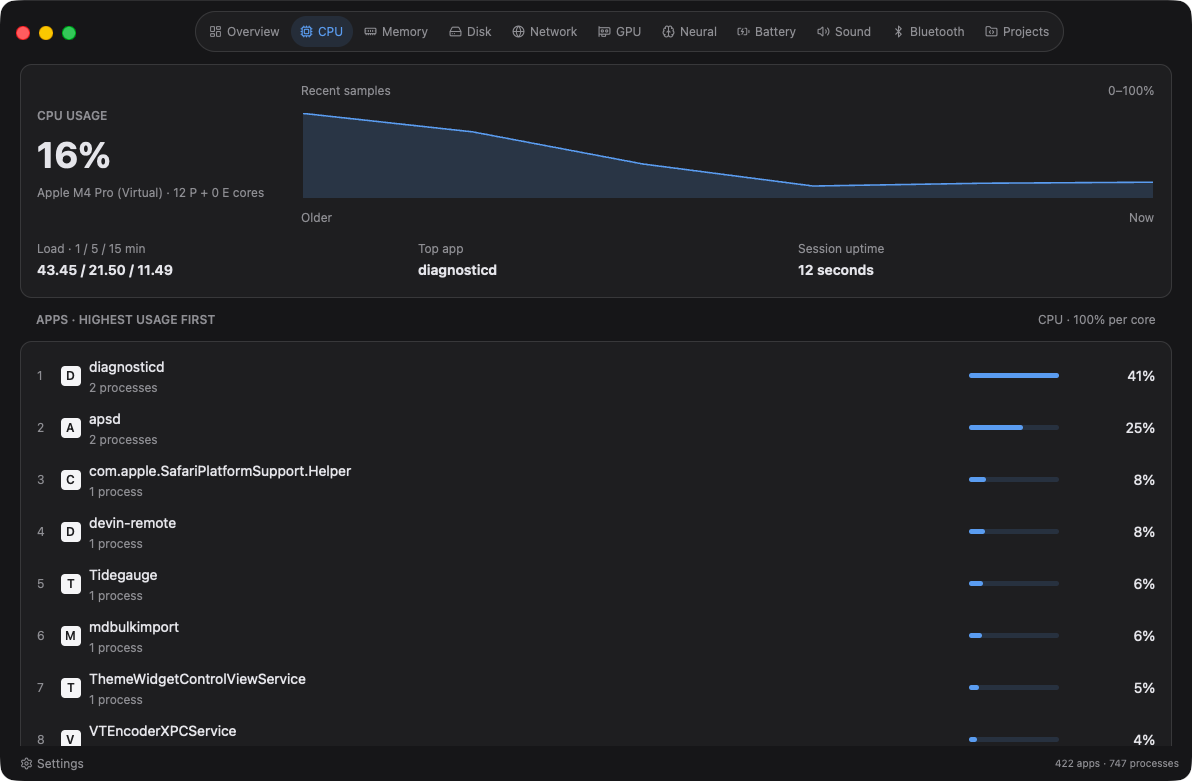
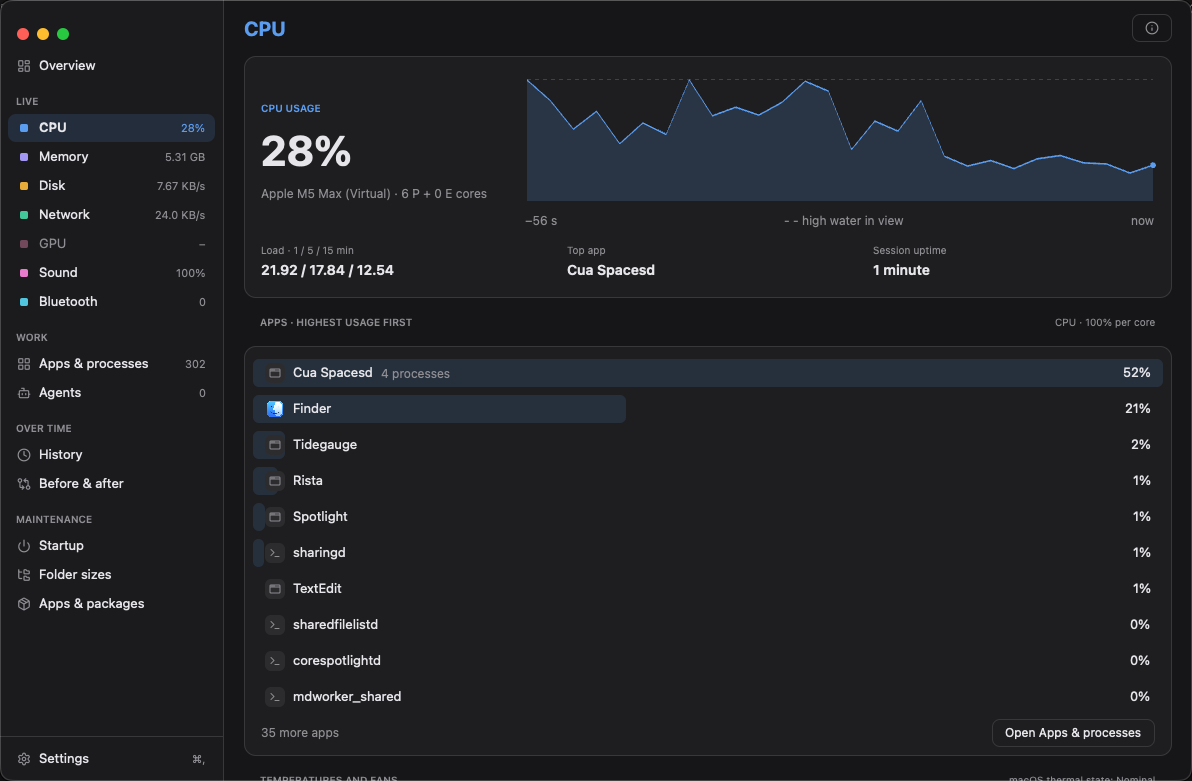
docs: new screenshots and README for the 0.3 layout
- Overview, CPU (light and dark), Apps & processes and Settings captured
  from the signed 0.3.3 build in a virtual Mac, English interface.
- The four captures of the old layout are removed.
- README describes the sidebar, the menu-bar panel, Agents, process
  control, language and updates instead of the old footer and tabs.

diff --git a/README.md b/README.md
@@ -14,15 +14,17 @@ notarized; a locally generated image is not automatically notarized.
 
 ![Tidegauge dashboard](assets/dashboard.png)
 
-Current dashboard in dark appearance, captured on a virtual Mac. Readings
-describe that development environment, not physical-hardware validation.
+Overview in Tidegauge 0.3.3, dark appearance, captured on a virtual Mac. The
+virtual Mac has no battery and no readable GPU usage, so those read as
+unavailable; readings describe that environment, not physical hardware.
 
 | Light appearance | Dark appearance |
 |---|---|
 | ![CPU in light appearance](assets/screenshots/cpu-light.png) | ![CPU in dark appearance](assets/screenshots/cpu-dark.png) |
+| ![Settings in light appearance](assets/screenshots/settings-light.png) | ![Apps and processes in dark appearance](assets/screenshots/apps-dark.png) |
 
-The [screenshot archive](assets/README.md#screenshot-archive) includes capture
-provenance, Norwegian layouts, and explicitly labeled hardware fixtures.
+The [screenshot archive](assets/README.md#screenshot-archive) records how each
+capture was made.
 
 ## Project status
 
@@ -53,7 +55,7 @@ cargo build --release
 ./target/release/tidegauge
 ```
 
-The app opens a resizable dashboard and adds one item to the menu bar. It runs without a Dock icon. Click the menu-bar item and choose Open Dashboard to bring it forward. Closing the window hides it while collection continues. The single menu-bar item opens a native menu with Open Dashboard, Settings, and Quit. Every dashboard tab has a Settings button in the footer. Command-comma also opens Settings, and Command-Q quits while the dashboard is focused. A per-user lock prevents duplicate instances; launching again leaves the existing app running.
+The app opens a resizable window and adds one item to the menu bar. It runs without a Dock icon. A left click on the menu-bar item opens a small panel with live readings, AI plans and the busiest apps, and a button that opens the window; a right or Control click opens a menu with Open Dashboard, Check for Updates, Settings, and Quit. Closing the window hides it while collection continues. The window's sidebar lists every page and ends with Settings. Command-comma also opens Settings, and Command-Q quits while the window is focused. A per-user lock prevents duplicate instances; launching again leaves the existing app running.
 
 Create an ad-hoc preview bundle after the optimized build:
 
@@ -80,19 +82,23 @@ DMG; the helper optionally signs with `DEVELOPER_ID_APPLICATION`.
 | Area | Current implementation |
 |---|---|
 | Menu bar | One Tidegauge icon by default; optional labeled readings share the same native item |
-| Overview | Favorite metric tiles, optional compact layout, and independently configurable tab visibility/order |
-| Metric tabs | CPU, Memory, Disk, Network, GPU, Neural, Battery, and stored History |
+| Menu-bar panel | Live CPU, memory, network and disk with recent curves, AI plans, the busiest apps, and quick actions |
+| Overview | Favorite metric cards, busiest apps, memory and power breakdowns, optional compact layout, and configurable sidebar order |
+| Metric pages | CPU, Memory, Disk, Network, GPU, Battery, Sound, Bluetooth, and stored History, each with notes behind ⓘ |
+| Agents | Running coding-agent sessions with what they started and Quit, AI plan usage read from OpenQuota's saved data, and development servers |
 | Device telemetry | Read-only temperature/fan channels, per-drive capacity/APFS/activity/health, and battery health/charging detail where available |
 | App grouping | CPU, memory, disk counters, and estimated power grouped by executable bundle or parent app |
 | Sound | Default media-output volume/mute controls where the device supports them, plus read-only process audio activity |
 | Bluetooth | Connected devices and available battery levels from `system_profiler` |
-| Projects | Owned development listeners, explicit process/project/port confirmation, signal-time eligibility checks, and asynchronous Stop outcomes |
+| Development servers | Shown in Agents: owned development listeners, explicit process/project/port confirmation, signal-time eligibility checks, and asynchronous Stop outcomes |
 | History | Local 12-hour, 24-hour, 7-day, and 30-day system/app trends with downsampled averages and visible gaps |
 | Alerts | Opt-in CPU, used-memory, disk, and network alerts; configurable CPU/memory thresholds and independent cooldowns |
 | Keep awake | Native idle-system-sleep prevention for 15 minutes, 30 minutes, 1 hour, or until stopped |
-| Processes | Observed app/helper ownership, start time, UID, current parent, possible startup associations, normal app Quit and guarded helper Stop |
+| Apps & processes | Every app with its processes, filter and sort, observed ownership, and confirmed Quit and Force Quit for an app, a process, or what an app left running |
+| Language | English or Norwegian Bokmål, following macOS or chosen in Settings |
+| Updates | Signed automatic updates, with Check for Updates in Settings, the panel and the menu |
 | Tools · Startup | Bounded legacy registration inventory, explicit override evidence, Tidegauge login preference and System Settings handoff |
-| Tools · Resource activity | Recent per-process CPU and disk I/O averages with observed coverage, not an energy score |
+| Last minute | Apps & processes view of recent per-process CPU, disk I/O and wakeups with observed coverage, not an energy score |
 | Tools · Compare | Frozen 5-, 15- or 30-minute system summaries and equal-length, non-overlapping comparisons |
 | Tools · Storage | Cancellable metadata-only selected-folder scan, allocated/logical sizes, largest files and Reveal in Finder |
 | Tools · Apps & Packages | Explicit source-filtered app/package inventory and single-item package-manager actions where ownership can be verified |
@@ -102,7 +108,7 @@ DMG; the helper optionally signs with `DEVELOPER_ID_APPLICATION`.
 - Project Stop rechecks ownership, start time, project eligibility, and a confirmed listening port. It requests termination with SIGTERM and reports whether the original process exited; it never escalates to force-kill. As with any PID-based API, validation and signaling are not an atomic operation.
 - Process signing metadata is fetched only on request and is not signature validation or a safety verdict. It never changes Quit/Stop eligibility. See [process semantics](docs/PROCESSES.md).
 - Sound controls apply to the default **media output**, not individual apps or the microphone. Unsupported device controls are unavailable. Per-app volume, mute, and signal meters remain deferred; no audio is captured. See [audio capabilities](docs/AUDIO.md).
-- Neural utilization is unavailable. GPU and battery detail depend on hardware and available system properties. Per-app watts are estimates derived from process counters.
+- Neural Engine usage is not measured. GPU and battery detail depend on hardware and available system properties. Per-app watts are estimates derived from process counters.
 - Alerts default to **off**, including when older settings are migrated. Enable each category in Settings. CPU/memory must exceed the chosen threshold for 20 seconds; disk/network for 30 seconds. An episode alerts only once until recovery, with a separate ten-minute cooldown for each category. Notification permission, Focus, and macOS notification settings still govern delivery.
 - Launch at login is
   available on macOS 13+ only for a bundle installed in `/Applications` or
@@ -128,7 +134,7 @@ Projects requires a working directory within four levels of a Git root or a reco
 | Saved system baseline | `~/Library/Application Support/no.ogard.tidegauge/system-baseline-v1.json` |
 | Cached app icons | `~/Library/Caches/no.ogard.tidegauge/icons/` |
 
-Open Settings using the dashboard footer, the app menu, or Command-comma. Each metric can be Off, Icon, Value, Graph, or Value + graph. Optional readings appear together in one native item, with labels for values and graphs, consistent spacing, and fixed widths for changing values. Changes are saved immediately and applied on the next refresh. Use Reset to icon only to clear extra readings. Existing preferences are preserved on upgrade.
+Open Settings from the sidebar, the menu-bar panel, the menu, or Command-comma. Each metric can be Off, Icon, Value, Graph, or Value + graph. Optional readings appear together in one native item, with labels for values and graphs, consistent spacing, and fixed widths for changing values. Changes are saved immediately and applied on the next refresh. Use Reset to icon only to clear extra readings. Existing preferences are preserved on upgrade.
 
 You can hide the Tidegauge icon while a metric is enabled; it stays visible if every metric is Off so Settings and Quit remain reachable. Graphs show a dash until enough samples are available. K/s, M/s, G/s, and T/s are byte rates using powers of 1024.
 

diff --git a/assets/README.md b/assets/README.md
@@ -17,36 +17,22 @@ The menu-bar SVG is optically adjusted for small sizes. Keep its six rounded bar
 
 ## Screenshot archive
 
-These selected native-window captures from the October 2026 layout and
-localization pass are stored in Git, not dependent on external attachment
-hosting. They show the implementation consolidated in [PR #19](https://github.com/henrikogaard/tidegauge/pull/19).
-The traffic lights are unobstructed. Captures exclude personal paths,
-credentials, device serial numbers, and unrelated desktop windows.
+Native-window captures of Tidegauge 0.3.3, the signed and notarized release
+build, taken in a virtual Mac on 2026-10-16 with the English interface. Each
+window ran for about 90 seconds first, so charts hold real samples and app
+icons have loaded. Captures exclude personal paths, credentials, device
+serial numbers and other windows. On `dashboard.png` a remote-session cursor
+badge in the empty title strip was painted over with the strip's own
+background; nothing else is edited.
 
-| Capture | Appearance / language | Data and purpose |
+| Capture | Appearance | What it shows |
 |---|---|---|
-| [Dashboard](dashboard.png) | Dark / English | Live virtual-Mac overview; GPU utilization and battery unavailable |
-| [CPU light](screenshots/cpu-light.png) | Light / English | Live virtual-Mac CPU summary, chart, and ranked processes |
-| [CPU dark](screenshots/cpu-dark.png) | Dark / English | Same layout in dark appearance; captured at a different sampling time |
-| [Battery](screenshots/battery-fixture-dark-nb.png) | Dark / Norwegian | Explicitly labeled development fixture, not battery measurements |
-| [Disk](screenshots/disk-fixture-min-dark-nb.png) | Dark / Norwegian | Explicitly labeled development fixture at minimum window size |
-| [Settings light](screenshots/settings-en-light-min.png) | Light / English | Minimum-size Settings, near the top of the scrollable form |
-| [Settings dark](screenshots/settings-nb-dark-min.png) | Dark / Norwegian | Minimum-size Settings, scrolled to the lower controls |
+| [Overview](dashboard.png) | Dark | Sidebar, live cards, busiest apps and memory breakdowns |
+| [CPU light](screenshots/cpu-light.png) | Light | CPU usage, its chart and the apps using it |
+| [CPU dark](screenshots/cpu-dark.png) | Dark | The same page in dark appearance, at another moment |
+| [Apps & processes](screenshots/apps-dark.png) | Dark | Every app with its processes, CPU and memory |
+| [Settings](screenshots/settings-light.png) | Light | The grouped settings list with switches and sliders |
 
-CPU and overview values belong to the development VM and are not generic
-mock readings. The battery/disk fixture banners must remain visible when
-reusing those images. None of these captures establishes physical sensor,
-battery, SMART, or signed-update compatibility. Settings captures include the
-native window shadow; no remote-control overlay covers the window controls.
-
-## Generation prompt
-
-The logo was created with the built-in image generator. The activity-bar version is the selected artwork.
-
-> Use case: logo-brand. Asset type: finished macOS app icon and repository logo for Tidegauge, a system activity monitor. Edit target: the attached activity-bar icon. Preserve the six rounded vertical bars, varied heights, shared baseline, centered composition, tile shape, padding and transparent exterior. Replace the entire blue/cyan palette with a quiet Graphite Night palette: tile charcoal #161618 with subtle #1e1e20 depth, bars in soft off-white #f5f5f7, silver #d1d1d6 and mid-gray #8e8e93. Crisp and refined, readable at 16 and 32 pixels. Very restrained material shading, no neon glow. No blue or cyan anywhere. No text, letters, numbers, axes, grid, wave, gauge, branding from other products, mockups, perspective, outer shadow, surrounding scene, or watermark. Only the finished icon with transparent canvas outside the tile.
-
-## License
-
-These repository assets use the project's [MIT License](../LICENSE).
-
-Copyright (c) 2026 Henrik Øgård.
+All readings belong to the virtual Mac: it has no battery and no readable GPU
+usage, and its app list includes the tools that run it. None of these captures
+establishes physical sensor, battery, SMART or update behaviour.
